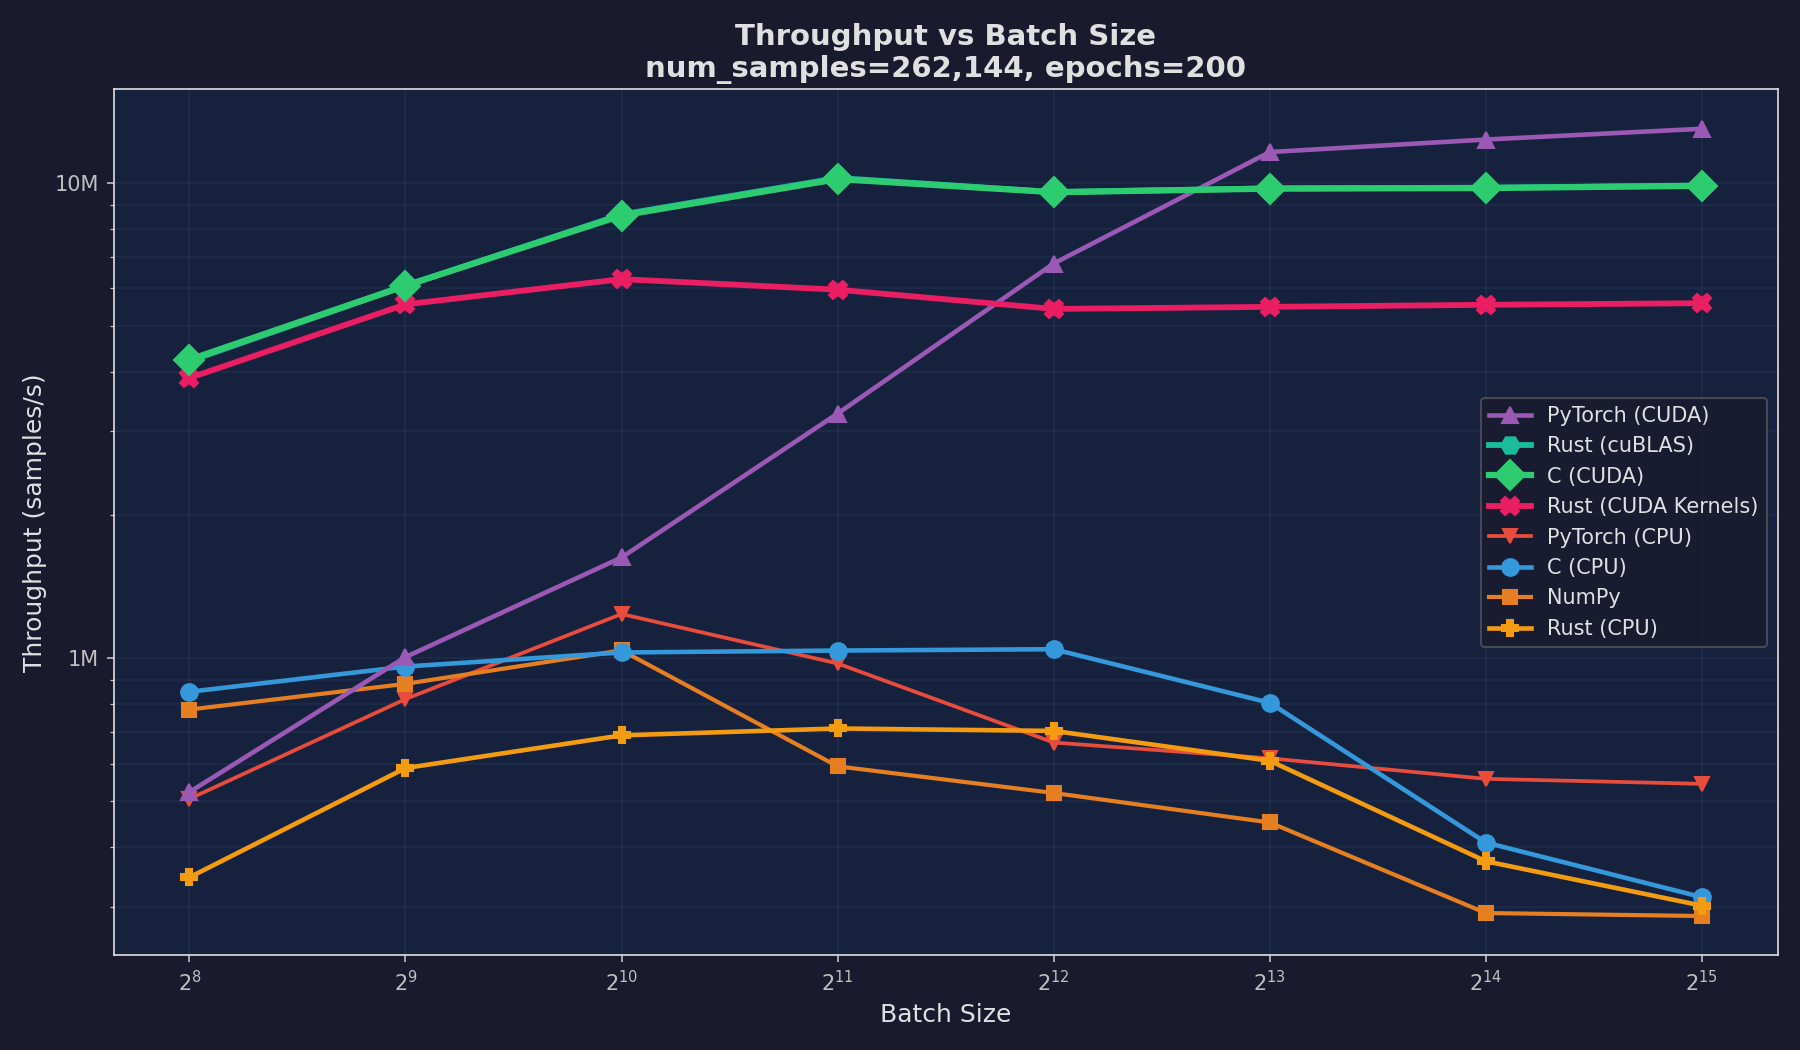
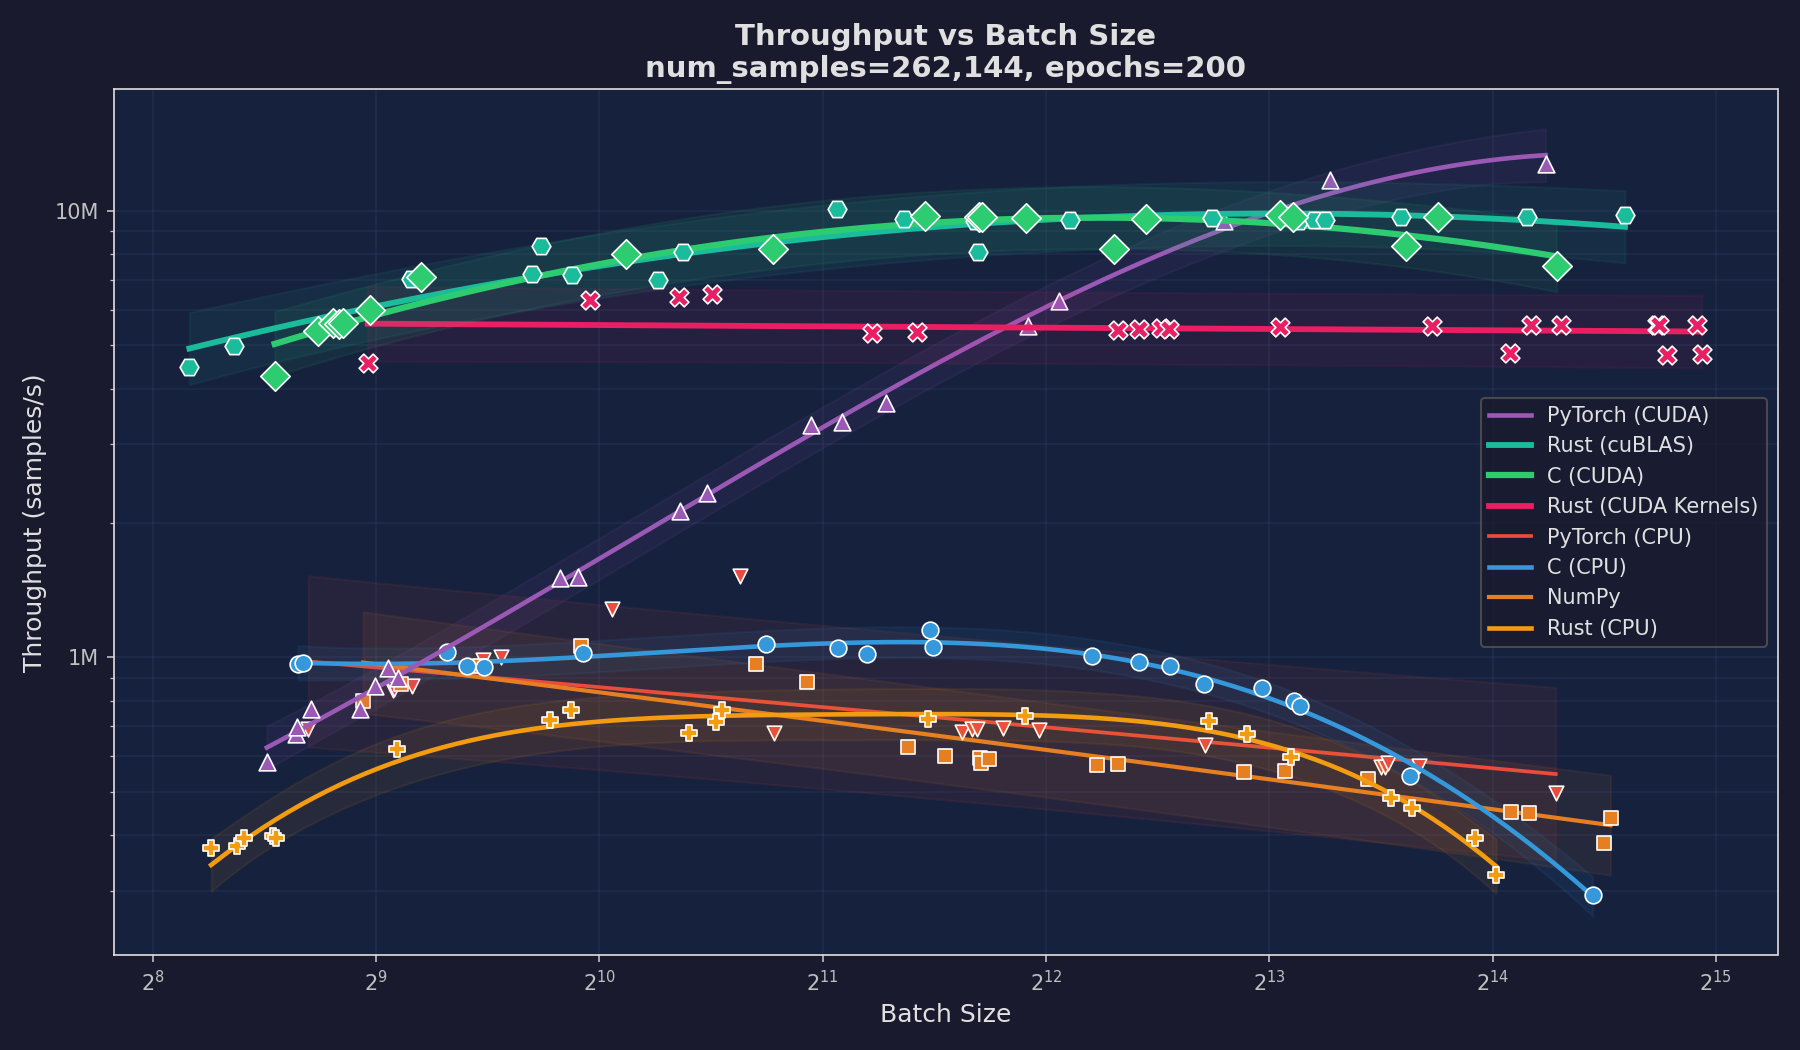
feat: GP regression scaling plots with overnight benchmark data
Round-robin scheduler with gap-filling and variance-reduction sampling.
  Continuous x-value sampling instead of fixed grid. Budget=0 replot mode.

diff --git a/src/scripts/benchmark.py b/src/scripts/benchmark.py
@@ -1153,12 +1153,13 @@ def run_scaling_experiment(available, runs, figs_dir, cfg, model="mlp",
             # Try GP-based speedup with CI
             sp_result = _speedup_with_ci(cache, sp_cache_key, gpu_label, cpu_label) if cache else None
 
-            if sp_result is not None and yf:
+            if sp_result is not None:
                 x_pts, sp_mean, sp_lower, sp_upper = sp_result
                 ax.plot(x_pts, sp_mean, color=color, linewidth=2.5, label=legend_name)
                 ax.fill_between(x_pts, sp_lower, sp_upper, color=color, alpha=0.10)
-                ax.scatter(xf, yf, color=color, marker="o", s=64,
-                           edgecolors="white", linewidths=0.8, zorder=10)
+                if yf:
+                    ax.scatter(xf, yf, color=color, marker="o", s=64,
+                               edgecolors="white", linewidths=0.8, zorder=10)
                 any_plotted = True
             elif yf:
                 ax.plot(xf, yf, marker="o", color=color, linewidth=2.5,
@@ -1433,9 +1434,9 @@ def main():
     parser.add_argument("--datasets", default="generated,iris,breast-cancer",
                         help="Comma-separated dataset names (standard mode, MLP only)")
     parser.add_argument("--runs", type=int, default=1)
-    parser.add_argument("--budget", type=int, default=None, metavar="MINUTES",
+    parser.add_argument("--budget", type=float, default=None, metavar="MINUTES",
                         help="Time budget in minutes for variance-weighted scheduling "
-                             "(scaling mode only, mutually exclusive with --runs > 1)")
+                             "(scaling mode only; use 0 to just replot from cache)")
     parser.add_argument("--no-cache", action="store_true",
                         help="Disable result caching (re-run everything)")
 
@@ -1496,7 +1497,7 @@ def main():
                                  else [2**n for n in range(6, 13)]),       # 64 .. 4096
             }
         if args.budget is not None:
-            cfg["budget_seconds"] = args.budget * 60 if args.budget else None
+            cfg["budget_seconds"] = args.budget * 60 if args.budget is not None else None
         run_scaling_experiment(available, args.runs, figs_dir, cfg,
                                model=args.model, use_cache=not args.no_cache)
     else:
